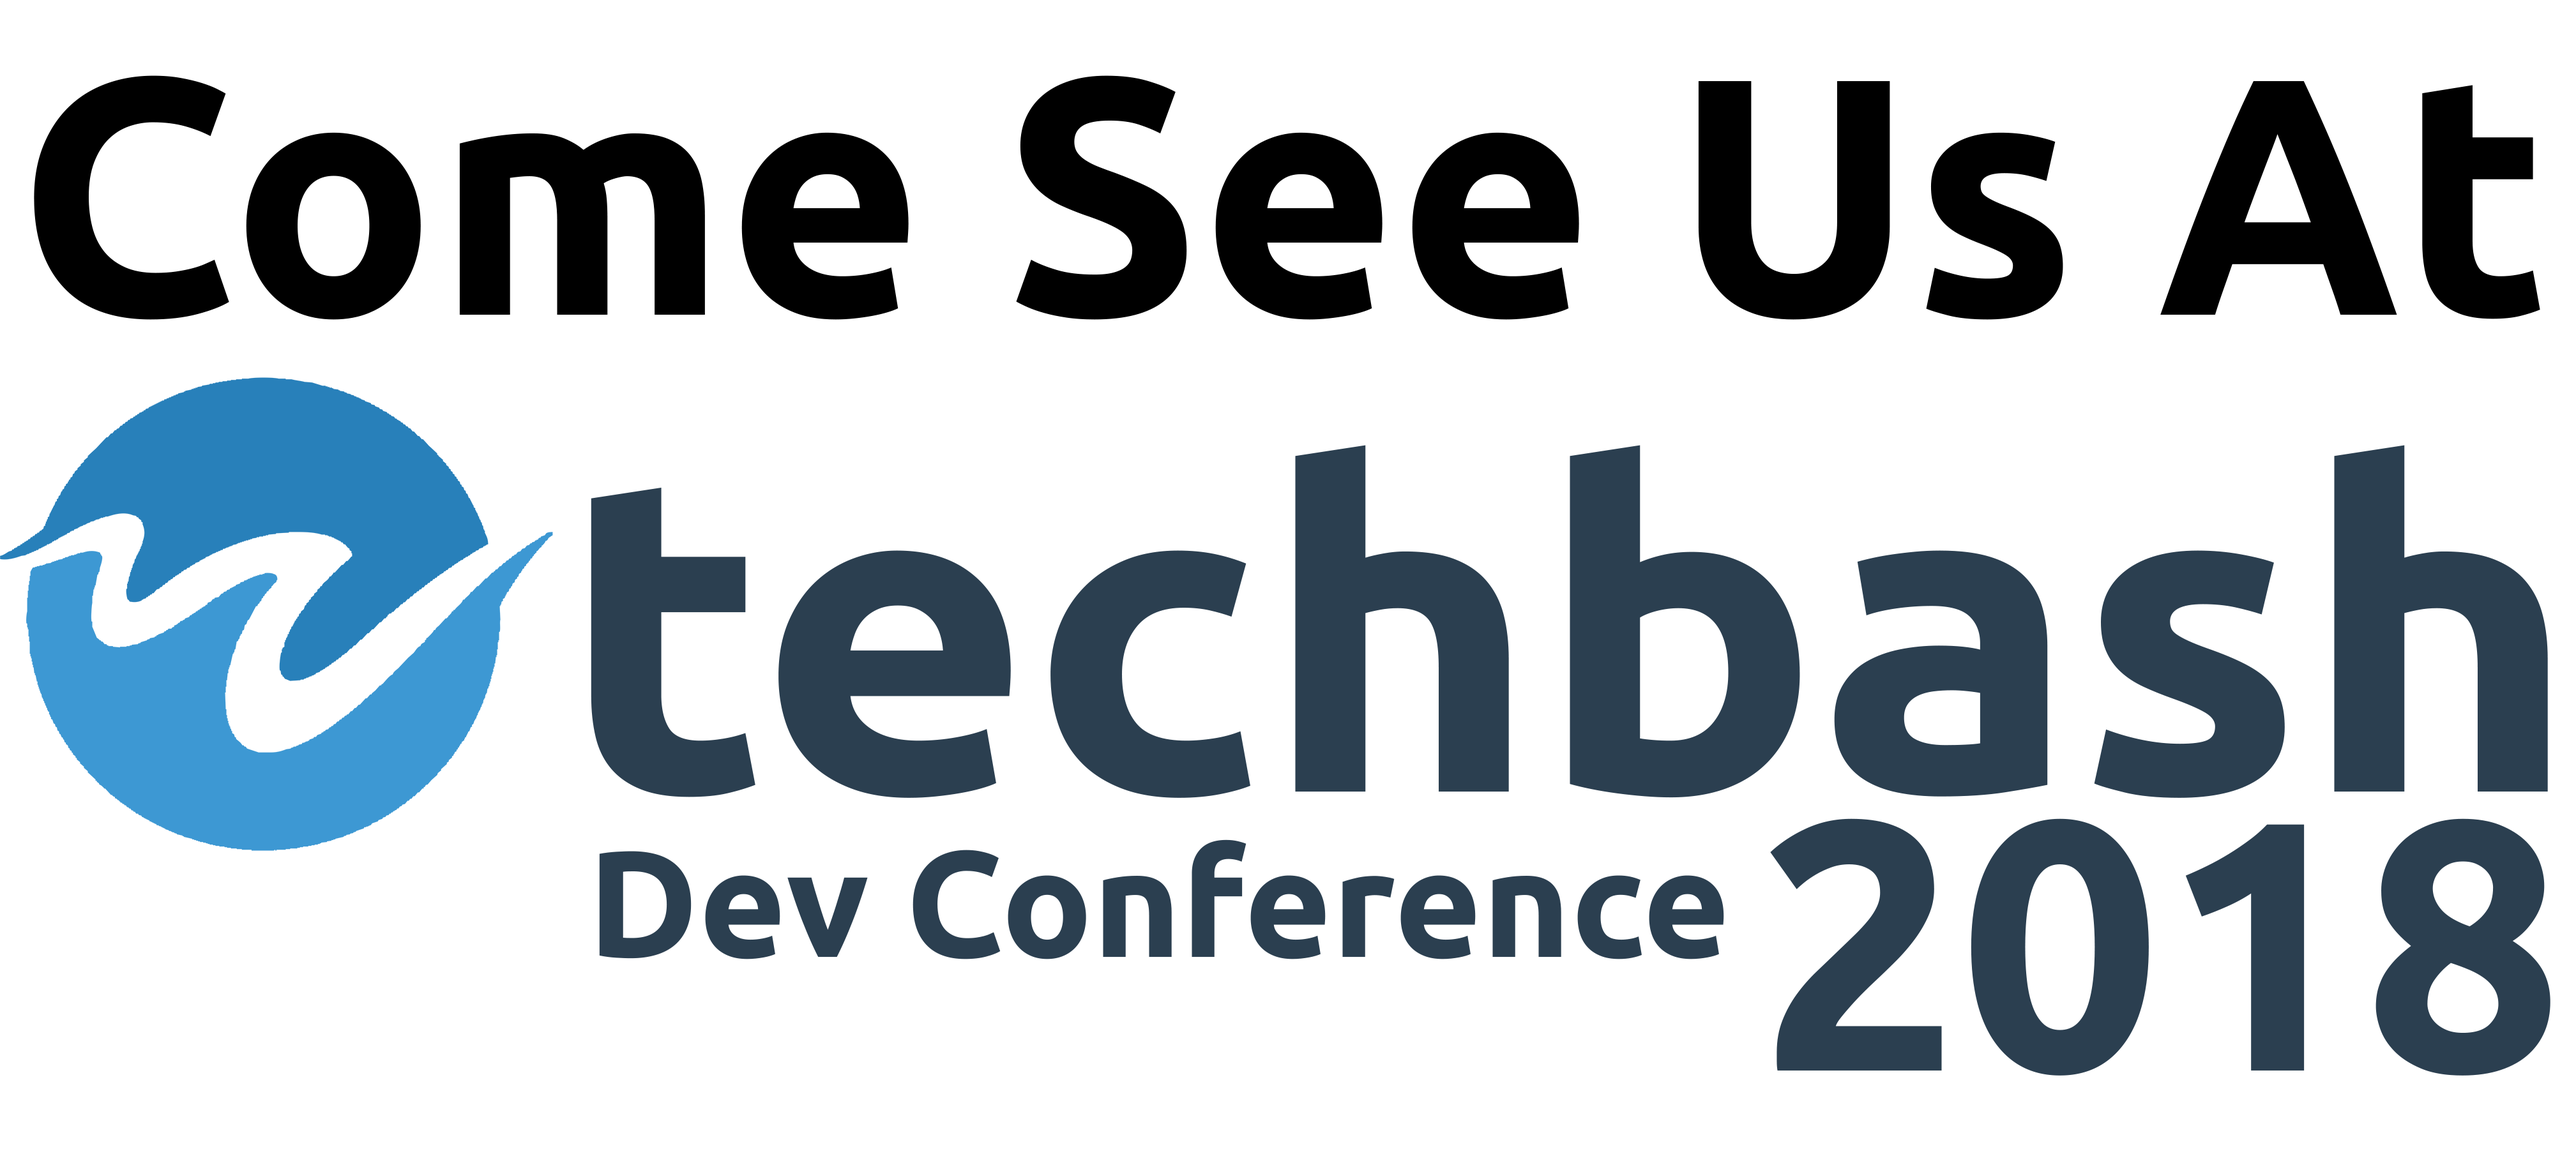
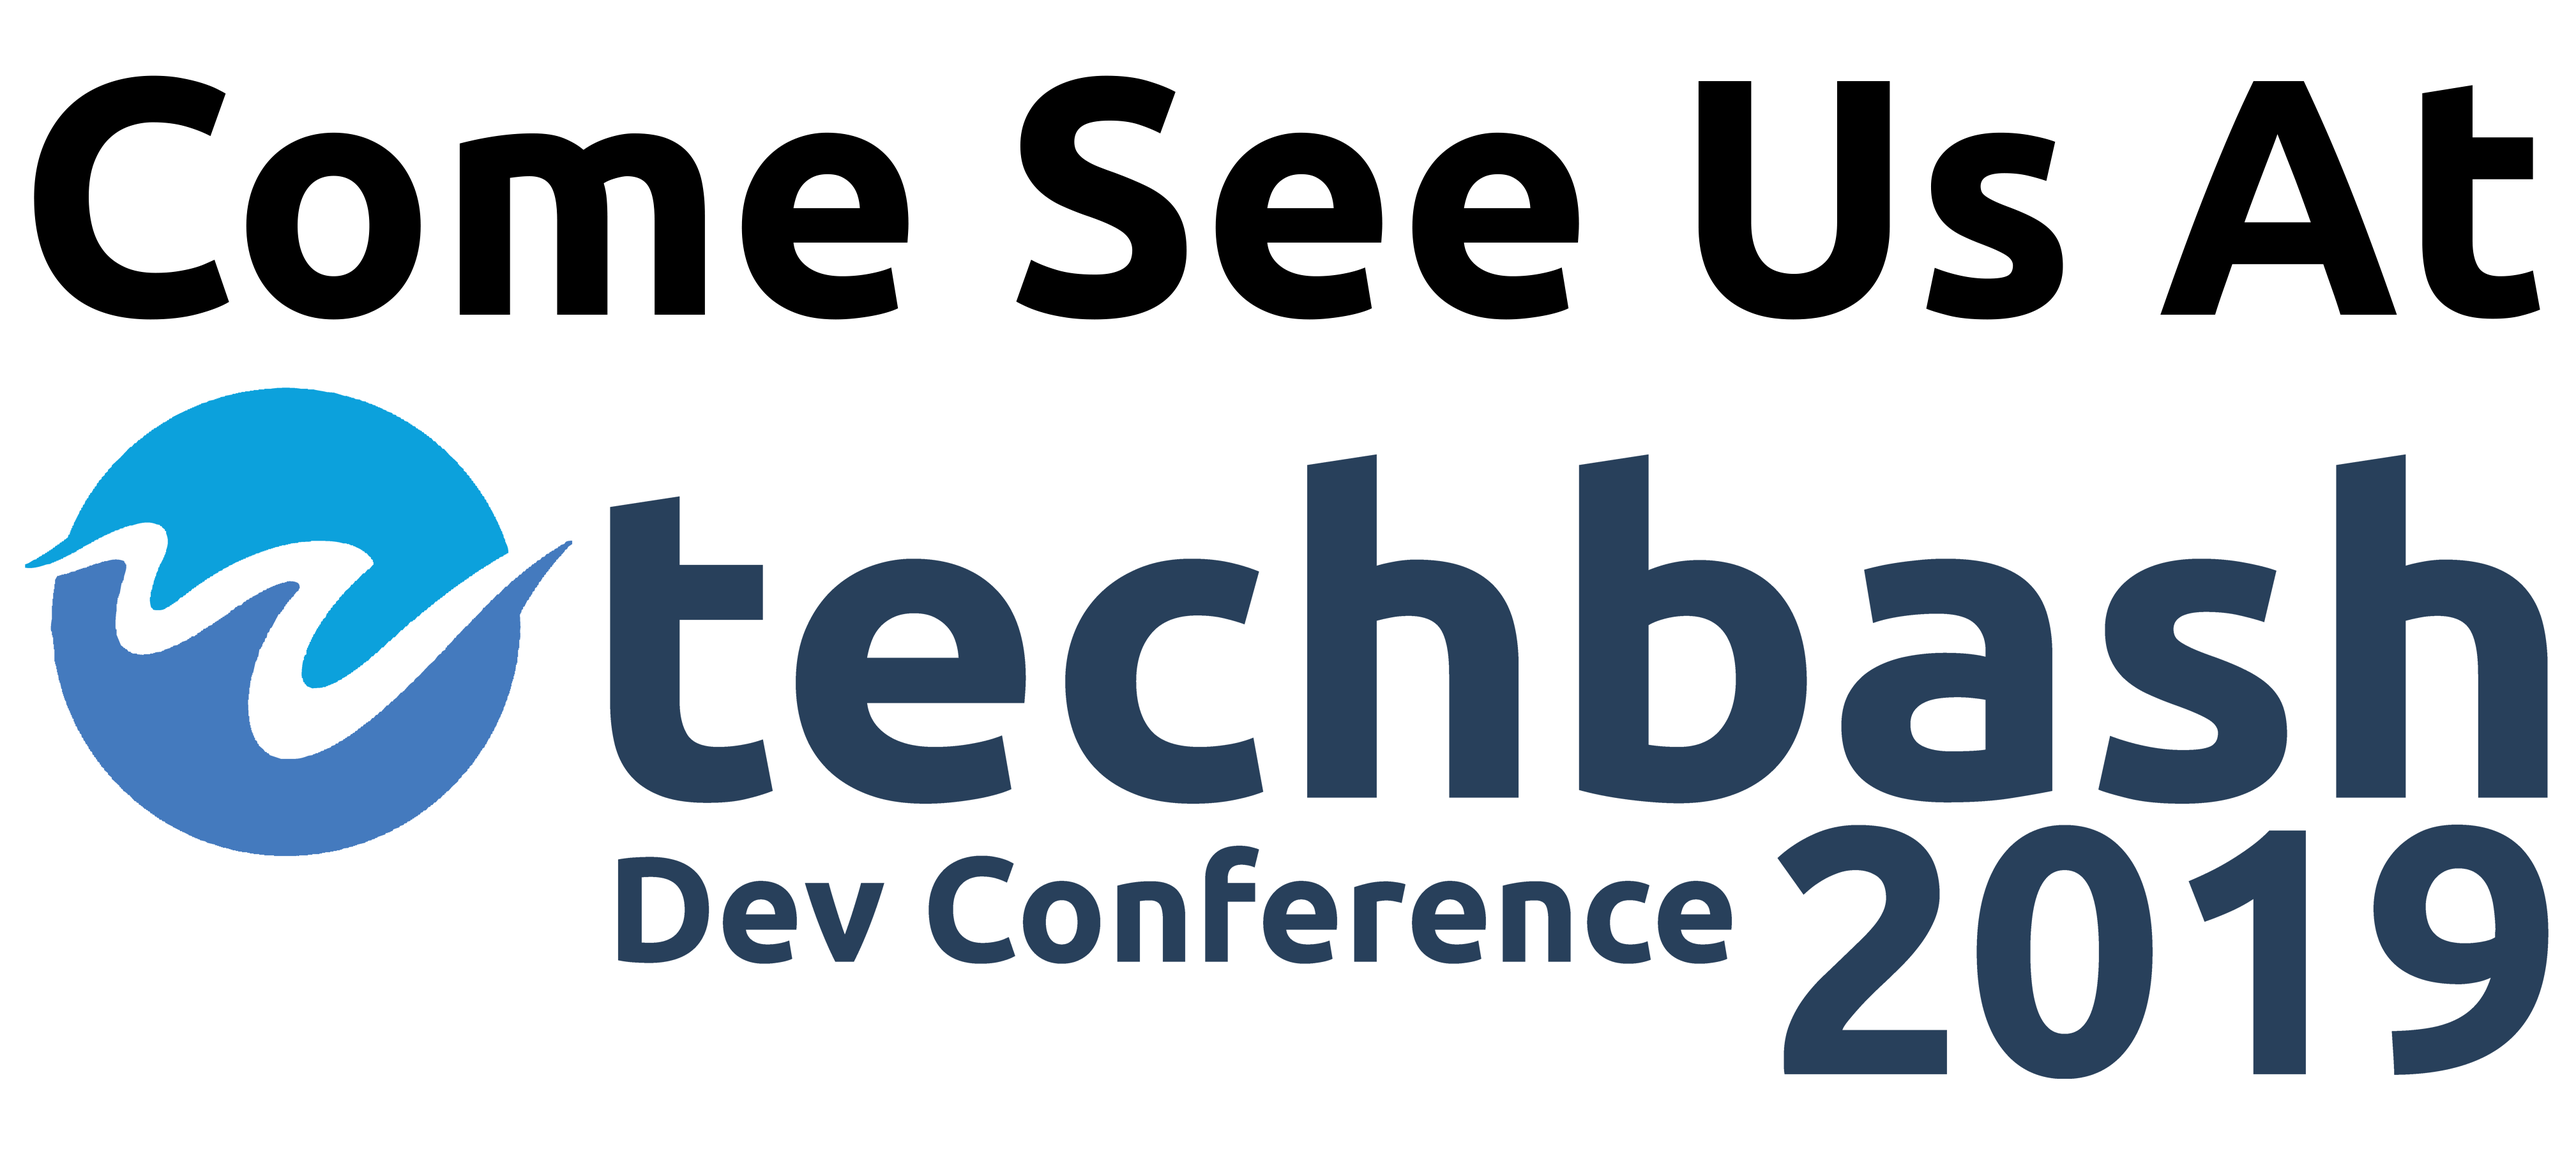
Updated Come See Us material

diff --git a/2019/Convincing Material/ComeSeeUs.html b/2019/Convincing Material/ComeSeeUs.html
@@ -1,9 +1,9 @@
     Hi {Recipient Name},<br /><br />
 
-    We're excited to inform you that we're a proud sponsor at the upcoming Techbash 2018 developer conference at the Kalahari Resort and 
+    We're excited to inform you that we're a proud sponsor at the upcoming Techbash 2019 developer conference at the Kalahari Resort and 
     Conference Center in Mount Pocono, Pennsylvania. We'd like to see you there too!<br /><br />
 
-    <a href="https://techbash.com" target="_blank"><img style="border: 1px solid #999" alt="Register for Techbash 2018 developer conference at techbash.com" src="https://raw.githubusercontent.com/TechBash/Marketing/master/2018/Banners/banner-468x60.png"></a><br/><br/>
+    <a href="https://techbash.com" target="_blank"><img style="border: 1px solid #486484" alt="Register for Techbash 2019 developer conference at techbash.com" src="https://raw.githubusercontent.com/TechBash/Marketing/master/2019/Banners/banner-468x60.png"></a><br/><br/>
 
     This is a great opportunity for us all.
     <ul>
@@ -13,9 +13,9 @@
 
     In case you haven't heard of Techbash, here are some of the details:<br/><br/>
 
-    &nbsp;&nbsp;&nbsp;&nbsp;<strong><a href="https://techbash.com/" target="_blank">Techbash 2018</a></strong><br />
-    &nbsp;&nbsp;&nbsp;&nbsp;October 2nd-5th, 2018<br/>
-    &nbsp;&nbsp;&nbsp;&nbsp;$399 conference tickets - <a href="mailto:groups@techbash.com">group discounts</a> available<br/>
+    &nbsp;&nbsp;&nbsp;&nbsp;<strong><a href="https://techbash.com/" target="_blank">Techbash 2019</a></strong><br />
+    &nbsp;&nbsp;&nbsp;&nbsp;November 12th-15th, 2019<br/>
+    &nbsp;&nbsp;&nbsp;&nbsp;$449 conference tickets - <a href="mailto:groups@techbash.com">group discounts</a> available<br/>
     &nbsp;&nbsp;&nbsp;&nbsp;Stay at the Kalahari Resort for as low as $159/night<br/>
     &nbsp;&nbsp;&nbsp;&nbsp;250 Kalahari Blvd, Pocono Manor, PA 18349<br/><br/>
 
@@ -23,12 +23,12 @@
     <ol>
         <li><strong>Content</strong> - TechBash has great content. Want to learn about the latest frameworks and patterns from industry experts? TechBash has got them. Want to hear directly from Microsoft employees and MVPs? There will be plenty of them. TechBash is bringing in the best speakers from top tech companies to deliver content to you.</li>
         <li><strong>Location</strong> - TechBash is organized by a small group of developers who were tired of traveling across the country for good content. So now they are bringing the content to you. TechBash is in the Poconos in Pennsylvania. That's less than a 2 hour drive from NYC or Philly. Plus, the short drive time means you won't need to ask your boss for two extra travel days.</li>
-        <li><strong>Price</strong> - Book now and you can register for TechBash plus 3 nights in the hotel for less than $1000. That's a great price for a conference of this caliber. Plus, no airfare needed so TechBash fits into your budget!  After 9/8 hotel rates may vary.</li>
+        <li><strong>Price</strong> - Book now and you can register for TechBash plus 3 nights in the hotel for less than $1000. That's a great price for a conference of this caliber. Plus, no airfare needed so TechBash fits into your budget!  After 10/1 hotel rates may vary.</li>
         <li><strong>Venue</strong> -  The Kalahari Resort. This is the largest indoor water park in the country. So while you are coming to learn and network with tech leaders from around the country and meet up with old friends and new, you can have a little fun and hit the water slides.</li>
         <li><strong>Fun for the Family</strong> - Yes, it's a huge water park. But there are a ton of other activities at the Kalahari Resort and nearby.</li>
     </ol>
     
-    <strong>New This Year:</strong> There are four pre-conference workshops to choose from covering ASP.NET Core, Azure, DevOps, and Docker EE.<br/><br/>
+    <strong>2019 Workshops:</strong> There are four pre-conference workshops to choose from covering Web Components, ASP.NET Core, Azure DevOps, and Serverless Computing.<br/><br/>
 
     Join us as we discover the latest technologies to build amazing things. Along with all the fun and learning you'll do, we'll have some cool swag at our booth that you can grab.<br/><br/>
 
